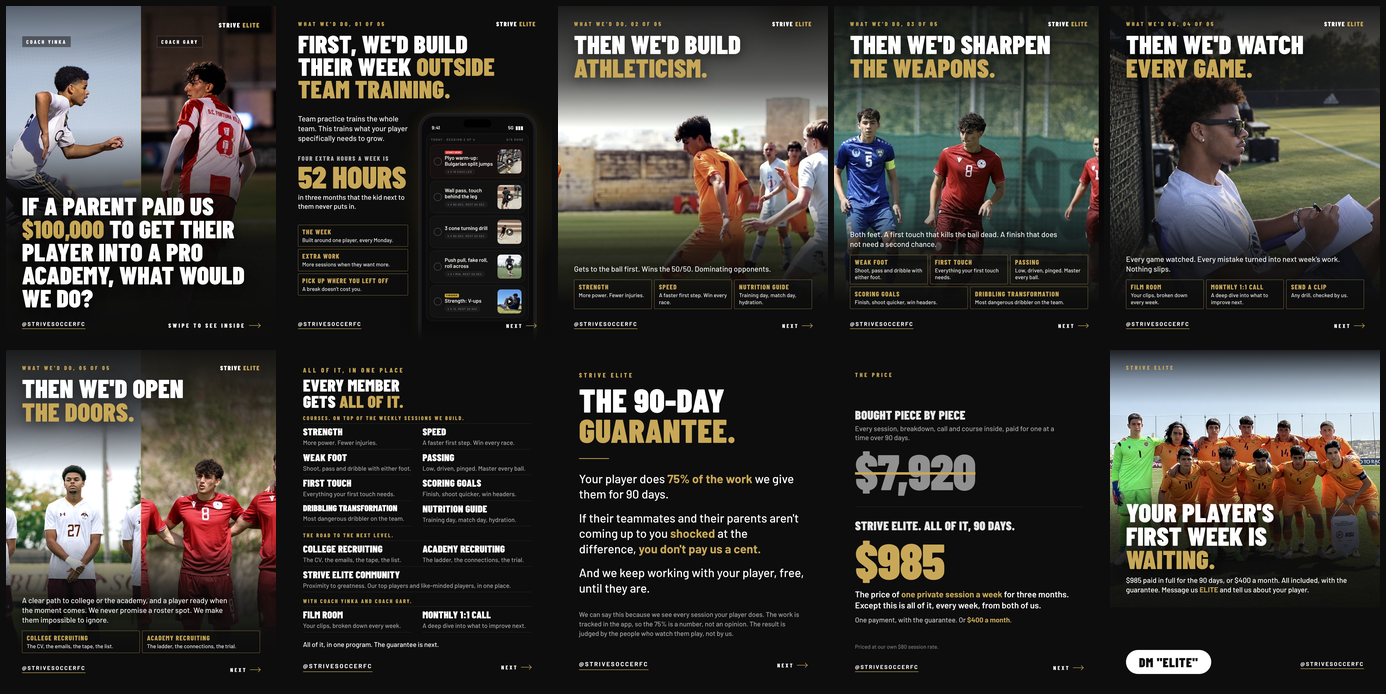
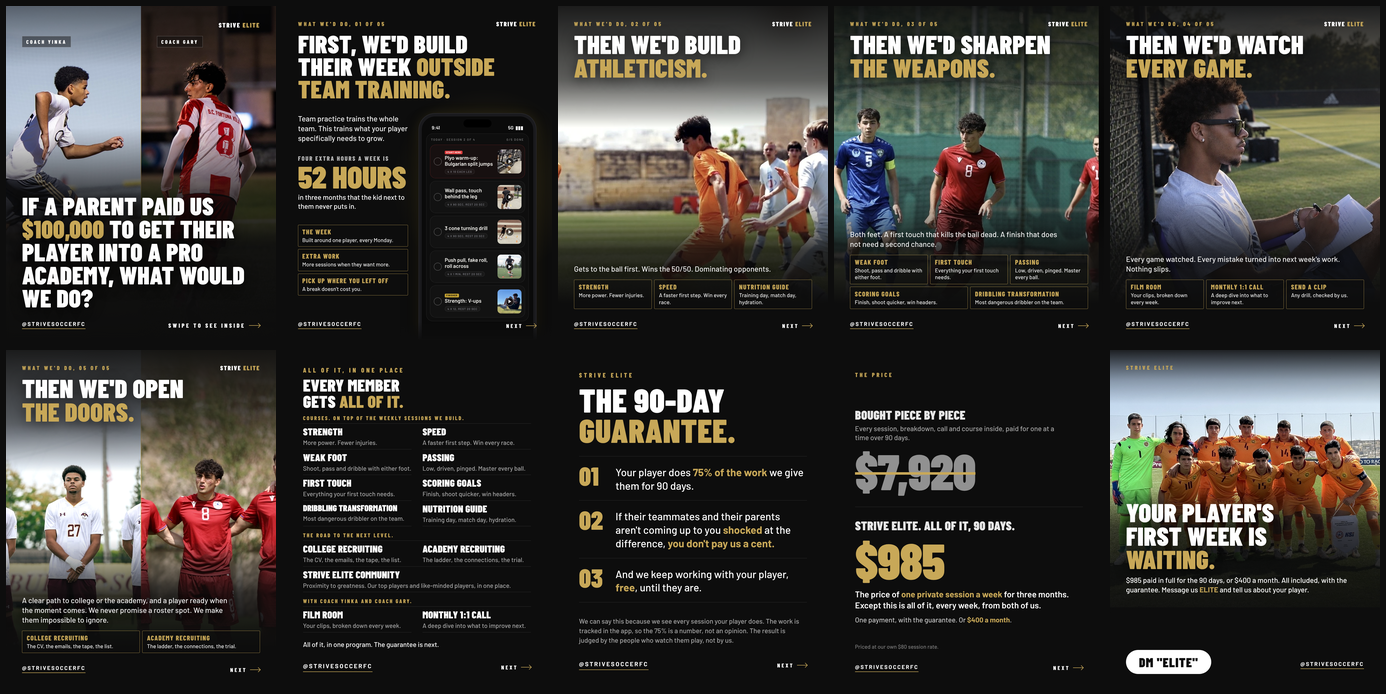
Offer carousel: the guarantee as three numbered steps
Claude-Session: https://claude.ai/code/session_011JsCTTjCbUkHbTuWTKQSXJ

Changed region(s): [[0.4033, 0.6657, 0.5895, 0.938]]

diff --git a/marketing/announcement/offer-post/promise.html b/marketing/announcement/offer-post/promise.html
@@ -12,7 +12,11 @@ body{font-family:'Barlow',sans-serif;color:#fff;position:relative;padding:84px 8
 .gold{color:#c8a858}
 .eyebrow{font-family:'Barlow Condensed';font-weight:800;font-size:26px;letter-spacing:.3em;text-transform:uppercase;color:#c8a858}
 h1{font-family:'Barlow Condensed';font-weight:900;font-size:132px;line-height:.92;text-transform:uppercase;margin-top:22px;letter-spacing:.01em}
-.rule{width:120px;height:3px;background:#c8a858;margin:52px 0 48px}
+.steps{margin-top:44px;border-top:1px solid rgba(255,255,255,.14)}
+.row{display:flex;gap:34px;align-items:flex-start;padding:34px 0 32px;border-bottom:1px solid rgba(255,255,255,.14)}
+.n{flex:none;width:112px;font-family:'Barlow Condensed';font-weight:900;font-size:104px;line-height:.8;color:#c8a858}
+.t{font-size:42px;line-height:1.28;font-weight:500;padding-top:2px}
+.t b{font-weight:700;color:#c8a858}
 .p{font-size:48px;line-height:1.28;font-weight:500}
 .p+.p{margin-top:34px}
 .p b{font-weight:700;color:#c8a858}
@@ -27,11 +31,12 @@ h1{font-family:'Barlow Condensed';font-weight:900;font-size:132px;line-height:.9
 
 <div class="eyebrow">Strive Elite</div>
 <h1>The 90-day<br><span class="gold">guarantee.</span></h1>
-<div class="rule"></div>
 
-<p class="p">Your player does <b>75% of the work</b> we give them for 90 days.</p>
-<p class="p">If their teammates and their parents aren't coming up to you <b>shocked</b> at the difference, <b>you don't pay us a cent.</b></p>
-<p class="p">And we keep working with your player, free, until they are.</p>
+<div class="steps">
+  <div class="row"><div class="n">01</div><p class="t">Your player does <b>75% of the work</b> we give them for 90 days.</p></div>
+  <div class="row"><div class="n">02</div><p class="t">If their teammates and their parents aren't coming up to you <b>shocked</b> at the difference, <b>you don't pay us a cent.</b></p></div>
+  <div class="row"><div class="n">03</div><p class="t">And we keep working with your player, <b>free</b>, until they are.</p></div>
+</div>
 
 <p class="note">We can say this because we see every session your player does. The work is tracked in the app, so the 75% is a number, not an opinion. The result is judged by the people who watch them play, not by us.</p>
 

diff --git a/CLAUDE.md b/CLAUDE.md
@@ -3687,6 +3687,21 @@ commit.
       drill bank or public/drills; the bank's V-ups row still plays
       its Manus video. If he wants this clip to replace it, say so
       and it goes in with the standard encode. Sent.
+      THEN (Coach Yinka: "Final guarantee page"): the 90-DAY
+      GUARANTEE slide (promise.png) is laid out as THREE NUMBERED
+      STEPS with hairline rules, the words exactly as approved:
+      01 "Your player does 75% of the work we give them for 90 days."
+      02 "If their teammates and their parents aren't coming up to you
+      shocked at the difference, you don't pay us a cent." 03 "And we
+      keep working with your player, free, until they are." The fine
+      print is unchanged. Before it was three paragraphs of text; the
+      structure was not visible at a glance. STILL UNSTAMPED, flagged
+      again with this send: what the 75% counts (proposed: sessions
+      done as the app counts them, courses untracked), what "don't pay
+      a cent" means for the $985 paid in full (proposed: refunded at
+      day 90, every dollar, on the parent's word, and the $400 monthly
+      family stops paying and gets the paid months back), and that the
+      free continuation has no cap. Sent.
 
 ## Growth target (stamped Sept 19, Coach Yinka's own call)
 
